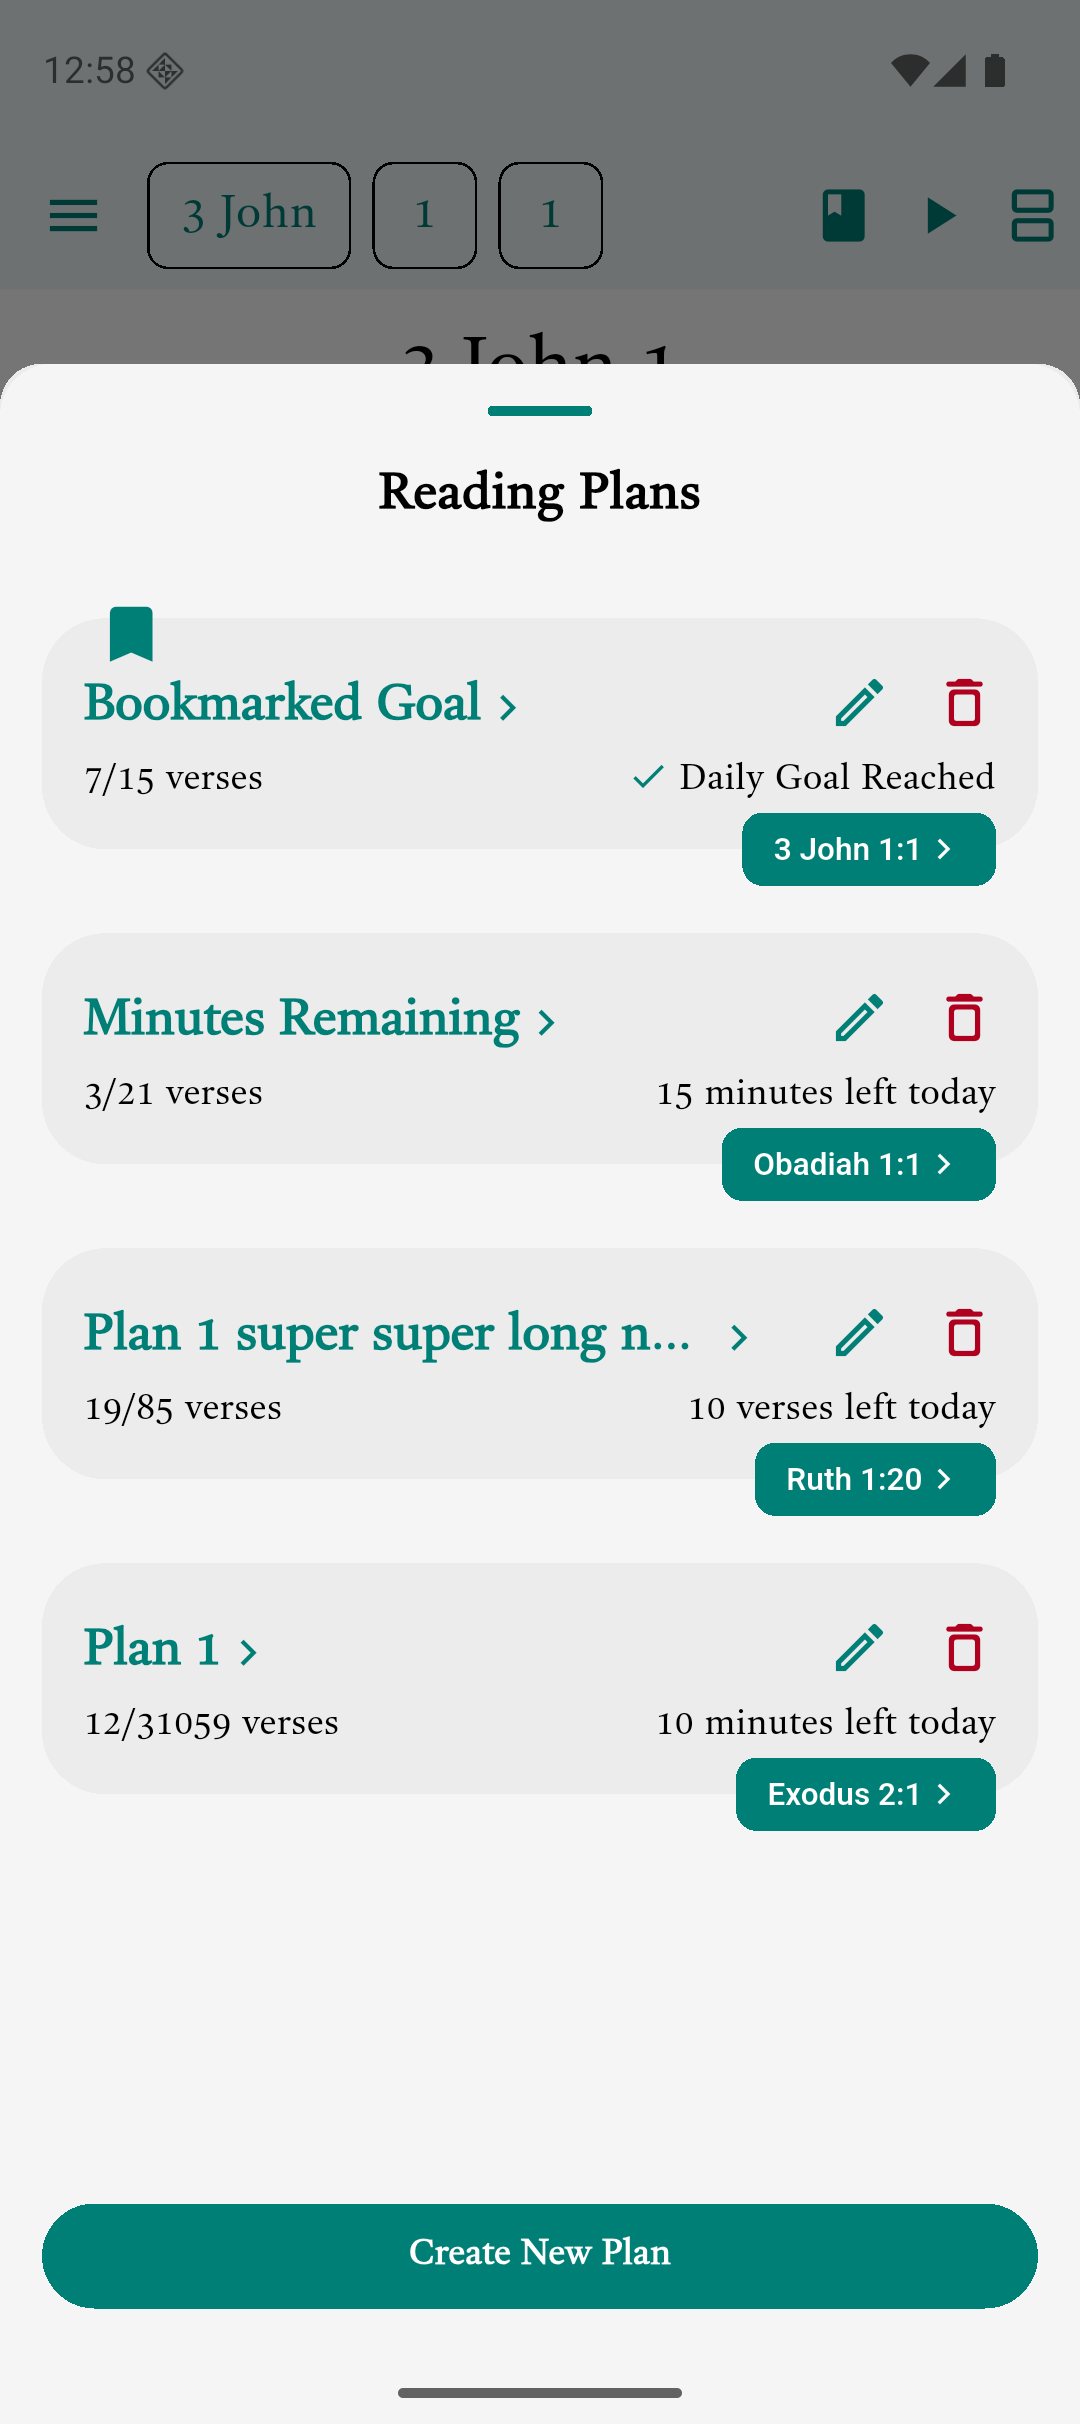
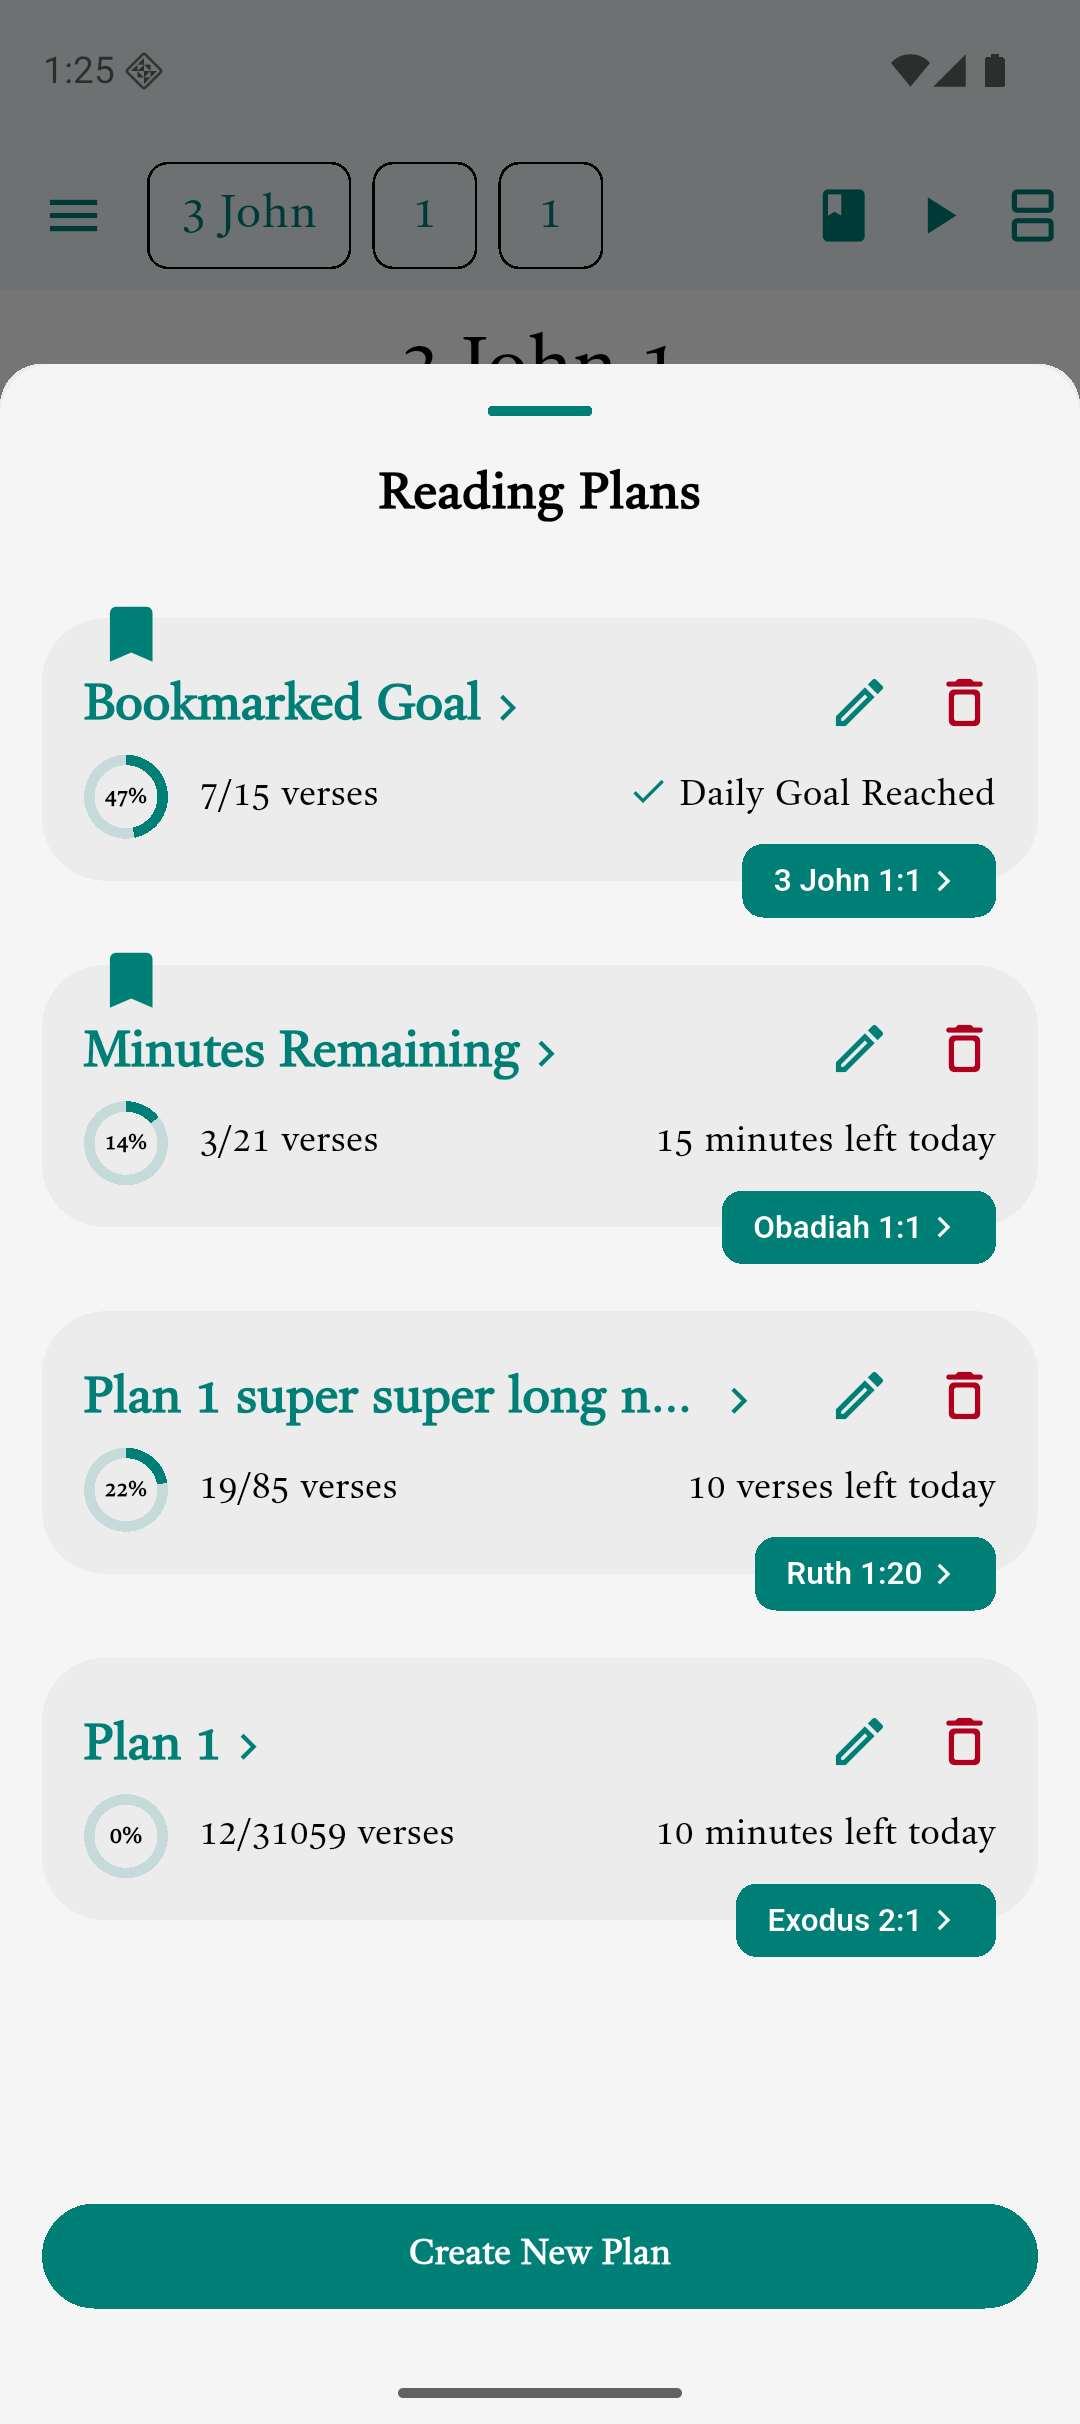
Restore overall progress circle on plan cards
Show a small progress circle beside the read/total verse count and update the widget test and screenshot.

diff --git a/lib/reading_plan/reading_plan_card.dart b/lib/reading_plan/reading_plan_card.dart
@@ -5,6 +5,7 @@ import 'package:gbt/common/reference.dart';
 import 'package:gbt/l10n/app_localizations.dart';
 import 'package:gbt/l10n/book_names.dart';
 import 'package:gbt/reading_plan/delete_reading_plan_confirm_dialog.dart';
+import 'package:gbt/reading_plan/progress_circle.dart';
 import 'package:gbt/reading_plan/rs_model.dart';
 
 class ReadingPlanCard extends StatelessWidget {
@@ -195,10 +196,27 @@ class ReadingPlanCard extends StatelessWidget {
 
   Widget _overallProgress(BuildContext context) {
     final l10n = AppLocalizations.of(context)!;
+    final progress = plan.totalVerses > 0
+        ? plan.versesRead / plan.totalVerses
+        : 0.0;
 
-    return Text(
-      '${plan.versesRead}/${plan.totalVerses} ${l10n.verses}',
-      style: const TextStyle(fontSize: 14, fontWeight: FontWeight.w500),
+    return Row(
+      mainAxisSize: MainAxisSize.min,
+      spacing: 12,
+      children: [
+        ProgressCircle(
+          percent: progress,
+          size: 32,
+          strokeWidth: 4,
+          fontSize: 9,
+        ),
+        Flexible(
+          child: Text(
+            '${plan.versesRead}/${plan.totalVerses} ${l10n.verses}',
+            style: const TextStyle(fontSize: 14, fontWeight: FontWeight.w500),
+          ),
+        ),
+      ],
     );
   }
 

diff --git a/test/reading_plan/reading_plan_panel_test.dart b/test/reading_plan/reading_plan_panel_test.dart
@@ -4,6 +4,7 @@ import 'package:gbt/l10n/app_localizations.dart';
 import 'package:gbt/reading_plan/reading_plan_card.dart';
 import 'package:gbt/reading_plan/reading_plan_panel.dart';
 import 'package:gbt/reading_plan/reading_plan_panel_view_model.dart';
+import 'package:gbt/reading_plan/progress_circle.dart';
 import 'package:gbt/reading_plan/rs_model.dart';
 import 'package:material_ui/material_ui.dart';
 
@@ -190,7 +191,7 @@ void main() {
       );
     });
 
-    testWidgets('shows overall progress as read over total verses', (
+    testWidgets('shows overall progress circle and read over total verses', (
       tester,
     ) async {
       planService.plans = [
@@ -205,6 +206,9 @@ void main() {
 
       await pumpPanel(tester);
 
+      final circle = tester.widget<ProgressCircle>(find.byType(ProgressCircle));
+      expect(circle.percent, 0.66);
+      expect(circle.size, 32);
       expect(find.text('66/100 verses'), findsOneWidget);
       expect(find.text('66/100 verses · 66%'), findsNothing);
     });
